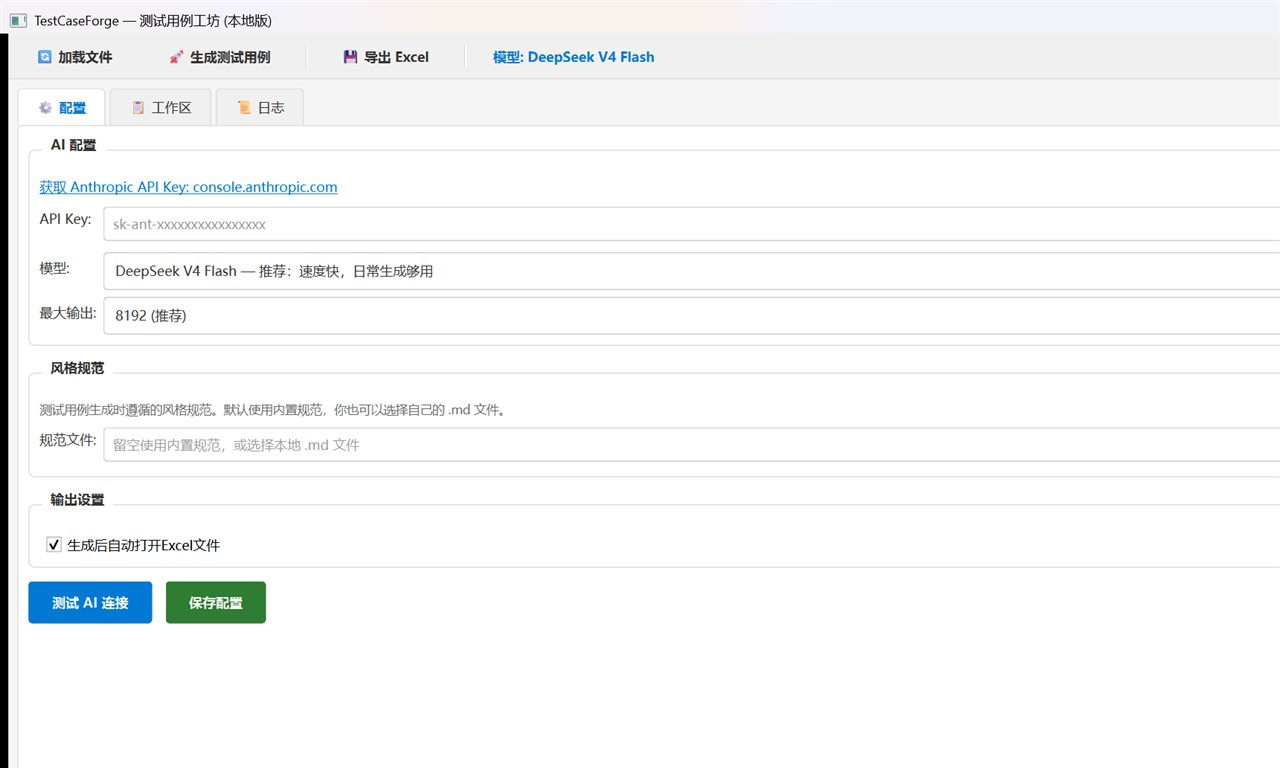
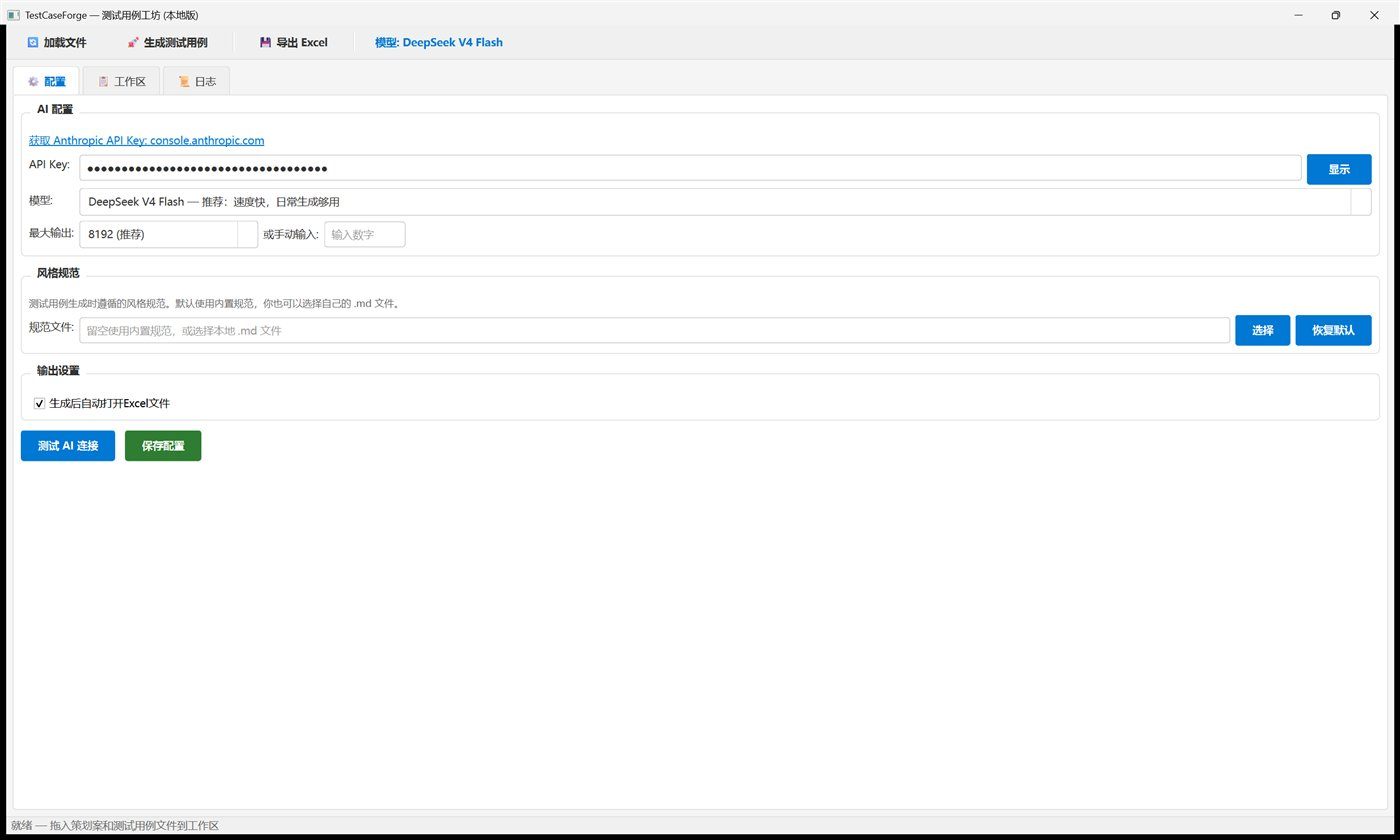
作品集页 TestCaseForge 截图换成修复后的高清版
配合界面修复（详见 D:\joker\TestCaseForge 的改动），重新截取并替换：
- 工作区页：完整展示两侧拖入区 + 生成的用例表 + 详情/编辑 + 底部导出按钮
- 配置页：「显示」按钮已正常显示文字，「最大输出」一行不再挤到最右
两张均为 DPI 感知截取（物理分辨率 2582x1550），等比缩放为 1400x840
同时更新了工作区那张的说明文字。

Changed region(s): [[0.0, 0.0, 1.0, 1.0], [0.375, 0.0625, 0.5312, 0.0938], [0.1875, 0.125, 0.2188, 0.1562]]

diff --git a/deploy-netlify/intro.html b/deploy-netlify/intro.html
@@ -208,7 +208,7 @@
    </div>
    <div class="shots">
     <img src="./img/tcf-workspace.jpg" alt="TestCaseForge 工作区">
-    <p class="cap">工作区 · 左侧拖入策划案、右侧可选拖入已有用例；下方是策划案预览与可直接双击编辑的用例表（功能模块 / 测试点 / 前置条件…）</p>
+    <p class="cap">工作区 · 上方两侧分别拖入策划案与已有用例（后者可选），下方是生成的用例表；选中一行可在「详情 / 编辑」里改测试步骤与数据，底部一键导出本地 Excel 或同步到飞书表格</p>
     <img src="./img/tcf-config.jpg" alt="TestCaseForge 配置页">
     <p class="cap">配置页 · 模型与最大输出可调；「风格规范」支持加载自定义 .md，生成的用例会严格遵循这份规范</p>
    </div>
